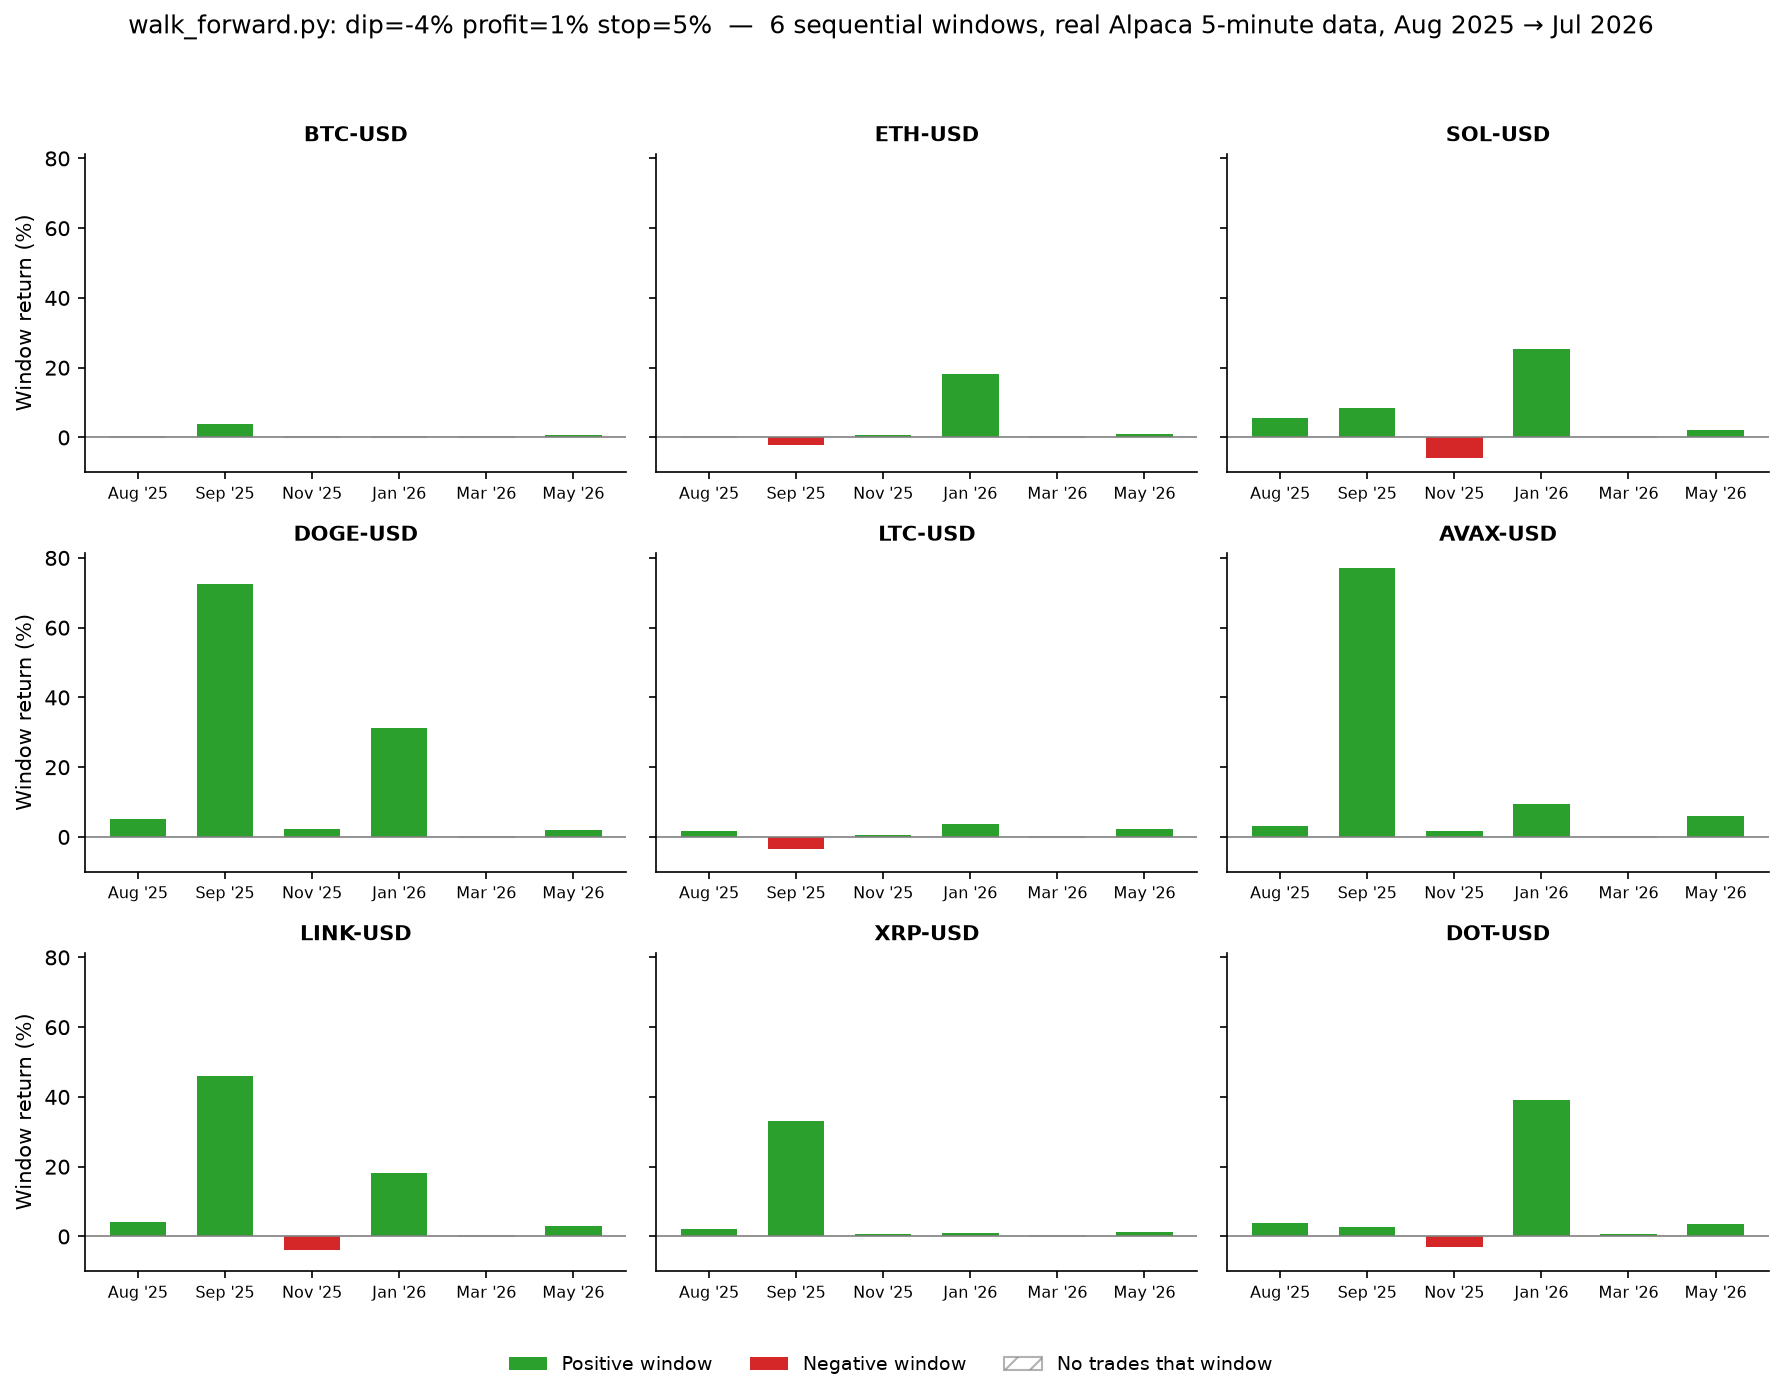
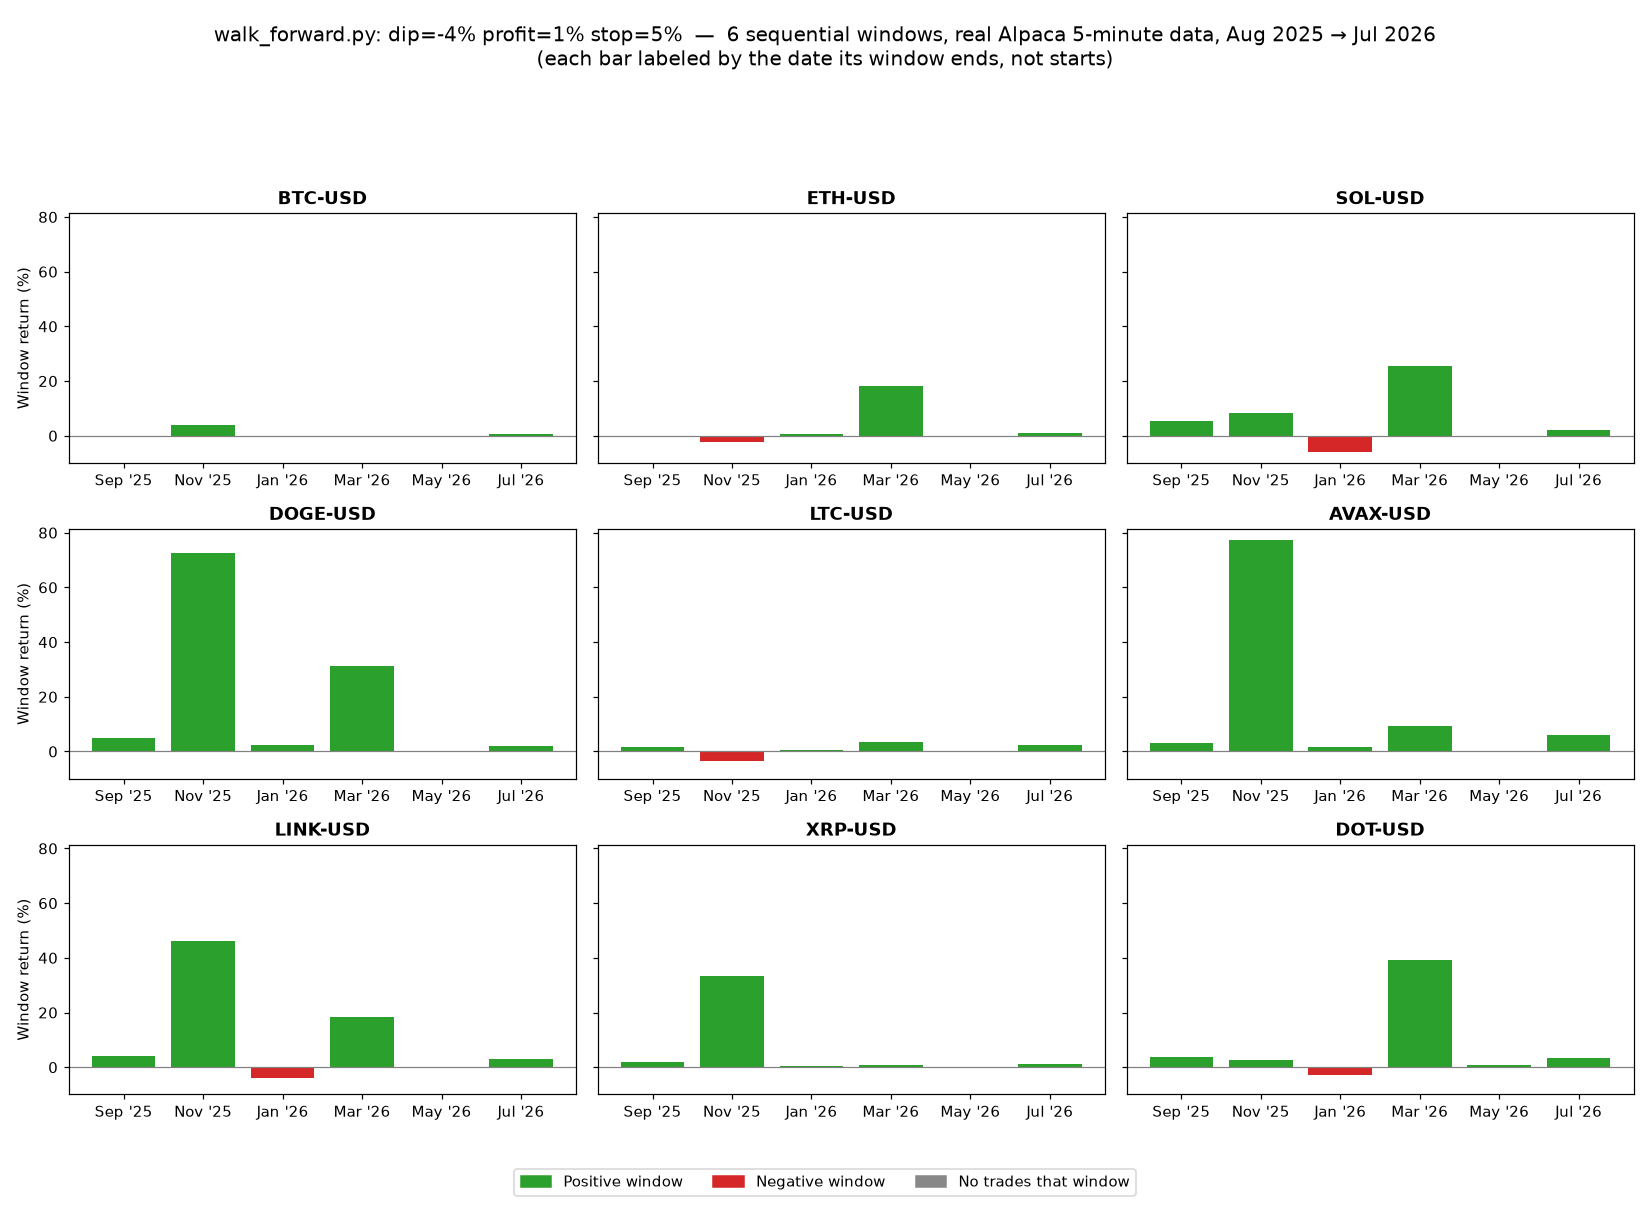
Add stop-loss re-entry cooldown; fix crypto chart month labels (v0.8.6)
The 0.8.5 stop-loss could backfire during a sustained decline by
re-buying immediately after a stop-out, turning one long unrealized
drawdown into several smaller realized losses (SPY's 2019-2021 window
went from -3.2% to -27.4% once a 10% stop was added, with no cooldown).
stop_cooldown_bars blocks re-entry for N bars after a stop-loss exit
specifically, defaulting to 0 (unchanged behavior).

Also relabels results/walk_forward_winner.png by window-end date
instead of window-start, so the final window shows "Jul '26" instead of
"May '26" - no data changed, just the bar labels.

diff --git a/src/strategies.py b/src/strategies.py
@@ -35,6 +35,7 @@ def rule_based_dip_buy(
     dip_threshold: float = -0.03,
     exit_threshold: float = 0.0,
     stop_loss: float | None = None,
+    stop_cooldown_bars: int = 0,
 ) -> pd.Series:
     """
     Simple mean-reversion rule:
@@ -50,6 +51,20 @@ def rule_based_dip_buy(
         `dip_buy_profit_target`'s stop-loss exists for, added here after
         walk-forward runs on daily stock bars found ticker/window
         drawdowns as deep as -40% while "waiting it out."
+      - After a stop-loss exit specifically (not a normal recovery exit),
+        refuse to re-buy for `stop_cooldown_bars` bars even if the dip
+        condition is still met. Without this, a sustained decline can
+        trigger the same stop-loss over and over - buy, stop out, buy
+        again immediately since the dip never went away, stop out again -
+        turning one long unrealized drawdown into several smaller
+        *realized* losses plus extra transaction costs, which is worse
+        than what the stop-loss was meant to prevent. Found running a
+        real walk-forward validation with a stop-loss but no cooldown:
+        SPY's 2019-12-to-2021-08 window went from -3.2% with no stop-loss
+        to -27.4% with one, because the stop kept re-triggering through
+        the 2020 crash instead of protecting against it.
+        `stop_cooldown_bars=0` (the default) preserves the original
+        immediate-re-entry behavior.
     """
     # How far below (or above) its own rolling average the price is at
     # each bar - this is the "is it a dip" signal the whole rule runs on.
@@ -69,6 +84,11 @@ def rule_based_dip_buy(
     # The price we bought at, once holding - only used by the stop-loss
     # check below; stays None the whole time if stop_loss isn't set.
     entry_price = None
+    # How many more bars must pass before a stop-loss-triggered exit is
+    # allowed to re-buy - only ever set to something nonzero right after
+    # a stop-out, and only if stop_cooldown_bars > 0; a normal recovery
+    # exit never touches this.
+    cooldown_remaining = 0
 
     for i in range(len(df)):
         val = pct_below[i]
@@ -78,12 +98,19 @@ def rule_based_dip_buy(
             # - stay flat rather than guess.
             position[i] = 0.0
             continue
-        if not holding and val <= dip_threshold:
-            # Not currently holding, and price has dropped at least
-            # dip_threshold below its average - buy.
-            holding = True
-            entry_price = close[i]
-        elif holding:
+        if not holding:
+            if cooldown_remaining > 0:
+                # Still serving out the post-stop-loss cooldown - refuse
+                # to re-buy this bar no matter how deep the dip is, and
+                # count this bar against the cooldown.
+                cooldown_remaining -= 1
+            elif val <= dip_threshold:
+                # Not currently holding, no cooldown in effect, and price
+                # has dropped at least dip_threshold below its average -
+                # buy.
+                holding = True
+                entry_price = close[i]
+        else:
             recovered = val >= exit_threshold
             # Only ever True if stop_loss was actually given - otherwise
             # this rule exits purely on mean reversion, exactly as before.
@@ -94,6 +121,11 @@ def rule_based_dip_buy(
                 # either way, whichever happened first.
                 holding = False
                 entry_price = None
+                if stopped_out and not recovered:
+                    # A genuine stop-loss exit (not just a recovery that
+                    # happened to also cross the stop line) - start the
+                    # re-entry cooldown, if one was requested.
+                    cooldown_remaining = stop_cooldown_bars
         # Whatever "holding" ended up as after the checks above, record
         # it as this bar's position: fully in (1.0) or fully out (0.0).
         position[i] = 1.0 if holding else 0.0
@@ -213,13 +245,14 @@ def position_for_params(strategy: str, df: pd.DataFrame, params: dict) -> pd.Ser
     if strategy == "rule_based":
         # Exits on mean reversion (price recovering back above the SMA),
         # not a fixed target - the same shape ml_filtered's model sits on
-        # top of. "stop_loss" is optional in this params dict (unlike
-        # day_trading, where it's always required) - .get() rather than
-        # ["stop_loss"] so callers that never pass one (the original
-        # shape) still dispatch to the exact same no-stop-loss behavior
-        # rule_based_dip_buy()'s own default already gives them.
+        # top of. "stop_loss" and "stop_cooldown_bars" are both optional
+        # in this params dict (unlike day_trading, where stop_loss is
+        # always required) - .get() rather than ["..."] so callers that
+        # never pass them (the original shape) still dispatch to the
+        # exact same behavior rule_based_dip_buy()'s own defaults give.
         return rule_based_dip_buy(
             df, dip_threshold=params["dip_threshold"], exit_threshold=params["exit_threshold"],
+            stop_cooldown_bars=params.get("stop_cooldown_bars", 0),
             stop_loss=params.get("stop_loss"),
         )
     raise ValueError(f"unknown strategy: {strategy}")

diff --git a/optimize.py b/optimize.py
@@ -141,6 +141,17 @@ def main():
                               "without one (the original mean-reversion-only behavior); rule_based "
                               "never had this until walk-forward runs on daily stock bars found "
                               "ticker/window drawdowns as deep as -40%% while waiting for a recovery.")
+    parser.add_argument("--stop-cooldown-values", default=None,
+                         help="--strategy rule_based only, optional (needs --stop-loss-values too) - "
+                              "how many bars to wait before re-buying after a stop-loss exit, swept "
+                              "alongside dip/exit/stop, e.g. 5,10,20. Without this, a stop-loss can "
+                              "immediately re-trigger during a sustained decline - buy, stop out, buy "
+                              "again since the dip never went away, stop out again - turning one long "
+                              "unrealized drawdown into several smaller realized losses plus extra "
+                              "transaction costs instead of actually protecting capital. Found running "
+                              "a real walk-forward validation with a stop-loss but no cooldown: SPY's "
+                              "2019-2021 window went from -3.2%% with no stop-loss to -27.4%% with one. "
+                              "Omit to search without a cooldown (0 bars).")
     parser.add_argument("--min-trades", type=float, default=5,
                          help="skip combos averaging fewer than this many trades per ticker - too rare to mean anything")
     parser.add_argument("--top", type=int, default=15)
@@ -200,10 +211,17 @@ def main():
         exit_values = [float(x) for x in args.exit_values.split(",")]
         if args.stop_loss_values:
             stop_loss_values = [float(x) for x in args.stop_loss_values.split(",")]
-            combos = [
-                {"dip_threshold": dip, "exit_threshold": exit_, "stop_loss": stop}
-                for dip, exit_, stop in itertools.product(dip_values, exit_values, stop_loss_values)
-            ]
+            if args.stop_cooldown_values:
+                cooldown_values = [int(x) for x in args.stop_cooldown_values.split(",")]
+                combos = [
+                    {"dip_threshold": dip, "exit_threshold": exit_, "stop_loss": stop, "stop_cooldown_bars": cd}
+                    for dip, exit_, stop, cd in itertools.product(dip_values, exit_values, stop_loss_values, cooldown_values)
+                ]
+            else:
+                combos = [
+                    {"dip_threshold": dip, "exit_threshold": exit_, "stop_loss": stop}
+                    for dip, exit_, stop in itertools.product(dip_values, exit_values, stop_loss_values)
+                ]
         else:
             combos = [
                 {"dip_threshold": dip, "exit_threshold": exit_}
@@ -239,12 +257,18 @@ def main():
             )
     else:  # rule_based
         has_stop = "stop_loss" in results_df.columns
+        has_cooldown = "stop_cooldown_bars" in results_df.columns
         stop_header = f"{'Stop':>8}" if has_stop else ""
-        print(f"{'Dip':>8}{'Exit':>8}{stop_header}{'AvgRet':>10}{'AvgSharpe':>11}{'AvgTrades':>11}{'WorstTicker':>13}")
+        cooldown_header = f"{'Cooldown':>10}" if has_cooldown else ""
+        print(
+            f"{'Dip':>8}{'Exit':>8}{stop_header}{cooldown_header}"
+            f"{'AvgRet':>10}{'AvgSharpe':>11}{'AvgTrades':>11}{'WorstTicker':>13}"
+        )
         for _, row in results_df.head(args.top).iterrows():
             stop_col = f"{row['stop_loss']:>7.1%} " if has_stop else ""
+            cooldown_col = f"{row['stop_cooldown_bars']:>9.0f} " if has_cooldown else ""
             print(
-                f"{row['dip_threshold']:>7.1%} {row['exit_threshold']:>7.1%} {stop_col}"
+                f"{row['dip_threshold']:>7.1%} {row['exit_threshold']:>7.1%} {stop_col}{cooldown_col}"
                 f"{row['avg_total_return']:>9.1%} {row['avg_sharpe']:>11.2f} {row['avg_trades']:>11.1f} "
                 f"{row['worst_ticker_return']:>12.1%}"
             )
@@ -258,6 +282,8 @@ def main():
         best_desc = f"dip={best['dip_threshold']:.1%} exit={best['exit_threshold']:.1%}"
         if "stop_loss" in results_df.columns:
             best_desc += f" stop={best['stop_loss']:.1%}"
+        if "stop_cooldown_bars" in results_df.columns:
+            best_desc += f" cooldown={best['stop_cooldown_bars']:.0f} bars"
     print(
         f"\nBest average combo: {best_desc}  (avg return {best['avg_total_return']:.1%} across "
         f"{len(test_dfs)} tickers, worst single ticker {best['worst_ticker_return']:.1%})"

diff --git a/walk_forward.py b/walk_forward.py
@@ -139,6 +139,13 @@ def main():
                               "required one, with its own default) so validating a rule_based combo "
                               "never silently picks up a stop-loss you didn't ask for. Omit to "
                               "validate without one (the original mean-reversion-only behavior).")
+    parser.add_argument("--rule-stop-cooldown", type=int, default=None,
+                         help="--strategy rule_based only, optional (needs --rule-stop-loss too) - "
+                              "how many bars to wait before re-buying after a stop-loss exit. Without "
+                              "this, a stop-loss can immediately re-trigger during a sustained "
+                              "decline instead of actually protecting capital - see --stop-loss-values "
+                              "in optimize.py for the real example that motivated this. Omit for no "
+                              "cooldown (0 bars).")
     parser.add_argument("--out", default="results/walk_forward.csv",
                          help="every window's result gets written here (one row per ticker per window, "
                               "including skipped ones) - a durable, committable record of a validation "
@@ -160,6 +167,9 @@ def main():
         if args.rule_stop_loss is not None:
             params["stop_loss"] = args.rule_stop_loss
             params_desc += f" stop={args.rule_stop_loss:.1%}"
+            if args.rule_stop_cooldown is not None:
+                params["stop_cooldown_bars"] = args.rule_stop_cooldown
+                params_desc += f" cooldown={args.rule_stop_cooldown} bars"
 
     periods_per_year = 252 if args.interval == "1d" else PERIODS_PER_YEAR_24_7.get(args.interval, 252)
     windows = make_windows(args.start, args.end, args.windows)

diff --git a/tests/test_strategies.py b/tests/test_strategies.py
@@ -152,6 +152,29 @@ def test_rule_based_dip_buy_exits_at_stop_loss_before_recovery():
     assert with_stop.tolist() == [0.0, 1.0, 1.0, 1.0, 0.0, 1.0]
 
 
+def test_rule_based_dip_buy_stop_cooldown_blocks_immediate_reentry():
+    # Same sustained-decline shape as the stop-loss test above, extended a
+    # few more bars past the stop-out so a cooldown has room to matter.
+    close = [100, 94, 92, 90, 88, 86, 84, 82]
+    pct_below = [0.0, -0.06, -0.08, -0.10, -0.12, -0.14, -0.16, -0.18]
+    df = pd.DataFrame({"Close": close, "pct_below_sma20": pct_below})
+
+    # No cooldown (the default): stop-loss trips at index 4 (88 is 5%+
+    # below the 94 entry price), then re-buys immediately at index 5
+    # since the dip is still well below dip_threshold - the whipsaw
+    # behavior that motivated adding a cooldown in the first place.
+    no_cooldown = rule_based_dip_buy(df, dip_threshold=-0.05, exit_threshold=0.0, stop_loss=0.05)
+    assert no_cooldown.tolist() == [0.0, 1.0, 1.0, 1.0, 0.0, 1.0, 1.0, 1.0]
+
+    # A 2-bar cooldown: stopped out at index 4, blocked from re-buying at
+    # indices 5 and 6 (cooldown counts down there) even though the dip
+    # persists, then finally allowed back in at index 7.
+    with_cooldown = rule_based_dip_buy(
+        df, dip_threshold=-0.05, exit_threshold=0.0, stop_loss=0.05, stop_cooldown_bars=2,
+    )
+    assert with_cooldown.tolist() == [0.0, 1.0, 1.0, 1.0, 0.0, 0.0, 0.0, 1.0]
+
+
 def test_rule_based_dip_buy_stop_loss_none_preserves_old_behavior():
     # Omitting stop_loss must give byte-for-byte the same result as before
     # this parameter existed - the whole point of defaulting it to None.

diff --git a/CHANGELOG.md b/CHANGELOG.md
@@ -17,6 +17,30 @@ The `0.x.x` line is "Version Richards"; `1.0.0`+ becomes "Version Giroux."
   regime the most recent real year happened to contain.
 - No known open correctness bugs (true as of 0.5.2).
 
+## Version Richards 0.8.6 - 2026-07-27
+
+- Fixed: `results/walk_forward_winner.png` (the crypto walk-forward chart)
+  labeled each bar by its window's **start** date, so the final window
+  (2026-05-28 -> 2026-07-27) only ever showed "May '26" - June and July
+  2026 never appeared as labels even though the chart's own title
+  correctly states the data runs through July 2026, and the underlying
+  `results/walk_forward.csv` data was always correct. Regenerated with
+  window **end** dates as labels instead; no data changed, cosmetic only.
+- Added: `stop_cooldown_bars` to `rule_based_dip_buy()`
+  (`src/strategies.py`) - real walk-forward evidence found the new
+  0.8.5 stop-loss could backfire during a sustained decline: SPY's
+  2019-2021 window went from -3.2% (no stop-loss) to -27.4% (10% stop,
+  no cooldown), because the strategy re-buys immediately after a
+  stop-out if the dip condition still holds, turning one long unrealized
+  drawdown into several smaller realized losses plus extra transaction
+  costs. `stop_cooldown_bars` blocks re-entry for N bars after a
+  stop-loss exit specifically (not after a normal recovery exit).
+  Defaults to `0` (unchanged behavior). Added `--stop-cooldown-values`
+  (`optimize.py`) and `--rule-stop-cooldown` (`walk_forward.py`), both
+  optional and only meaningful alongside a stop-loss.
+- Added: 1 test for the cooldown blocking re-entry, then correctly
+  releasing it after N bars. 59 tests passing.
+
 ## Version Richards 0.8.5 - 2026-07-27
 
 - Added: optional `stop_loss` parameter to `rule_based_dip_buy()`

diff --git a/docs/RESEARCH.md b/docs/RESEARCH.md
@@ -312,6 +312,13 @@ quicker read than the raw CSVs:
 
 <img src="../results/walk_forward_winner.png" alt="Nine small-multiple bar charts, one per coin, showing the chosen combo's return in each of 6 sequential real-data windows from August 2025 to July 2026. Most windows are small positive or flat bars; a handful are large positive spikes concentrated in the same two calendar windows across several coins; a few are small red losses." width="720">
 
+(Each bar in the second chart is labeled by the date its window *ends*,
+not starts - the first version labeled by start date, so the final
+window, 2026-05-28 through 2026-07-27, only ever showed "May '26" and
+June/July 2026 never appeared as labels at all, even though the
+underlying data and this chart's own title both correctly cover the
+full range. Relabeled, no data changed.)
+
 Both were generated straight from the committed CSVs above, not
 hand-edited - re-run `optimize.py`/`walk_forward.py` and regenerate them
 anytime to check a new result the same way.

diff --git a/README.md b/README.md
@@ -1,4 +1,4 @@
-# InvestingBot — Version Richards 0.8.5
+# InvestingBot — Version Richards 0.8.6
 
 Version history lives in `CHANGELOG.md`.
 
